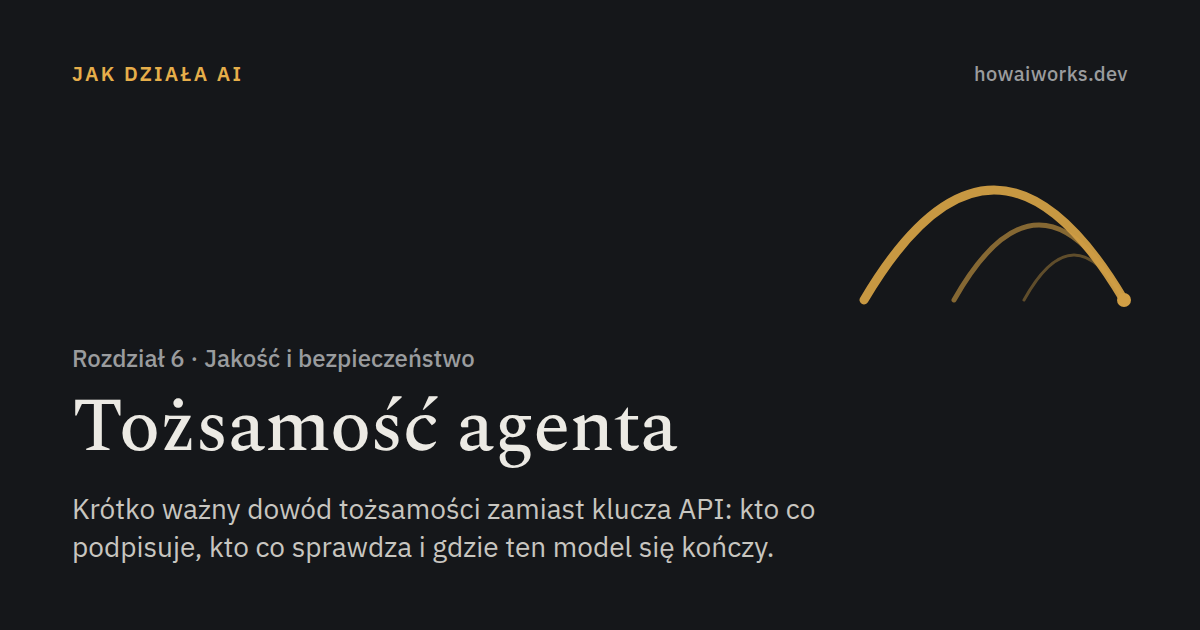
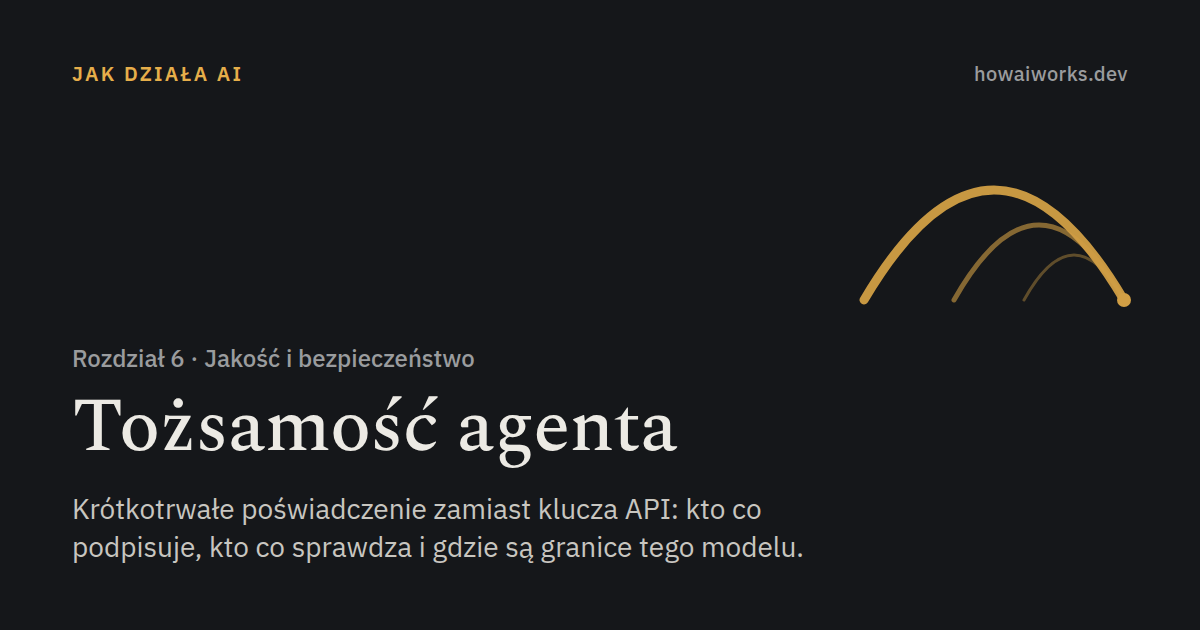
Agent identity: final review fixes and fresh preview images

Changed region(s): [[0.1233, 0.7841, 0.6783, 0.9048]]

diff --git a/src/stations/tozsamosc.html b/src/stations/tozsamosc.html
@@ -48,7 +48,7 @@
   <h3 class="sub">Tożsamość agenta i użytkownika</h3>
   <ul class="notes">
     <li>SPIFFE ID wskazuje agenta, ale nie użytkownika, dla którego agent pracuje. Bez tej informacji grozi problem confused deputy: użytkownik bez prawa do danych dostaje je przez agenta, który to prawo ma. Decyzja o dostępie musi więc uwzględniać obie tożsamości, a dozwolone jest tylko to, co wolno i agentowi, i użytkownikowi.</li>
-    <li>RFC 8693 rozróżnia impersonację i delegację. Przy impersonacji A występuje jako B i w logach nie widać A. Przy delegacji A zachowuje własną tożsamość, zapisaną w polu <code>act</code> tokena. Agentom potrzebna jest delegacja, żeby audyt odróżniał kliknięcie człowieka od decyzji modelu. W pokazanym przepływie z kodem autoryzacji agenta wskazuje <code>client_id</code>, a <code>act</code> pojawia się zwykle przy wymianie tokena.</li>
+    <li>RFC 8693 rozróżnia impersonację i delegację. Przy impersonacji odbiorca tokena traktuje A jak B. Przy delegacji A zachowuje własną tożsamość, zapisaną w polu <code>act</code> tokena. Agentom potrzebna jest delegacja, żeby audyt odróżniał kliknięcie człowieka od decyzji modelu. W pokazanym przepływie z kodem autoryzacji agenta wskazuje <code>client_id</code>, a <code>act</code> pojawia się zwykle przy wymianie tokena.</li>
     <li>Agent nie powinien znać hasła użytkownika ani mieć jego długotrwałego tokena. Dostaje token dla jednego serwera i zakresu, a wobec serwera autoryzacji uwierzytelnia się swoim SVID.</li>
     <li>Narzędzie, które wywołuje kolejną usługę, wymienia token na nowy, węższy. MCP zabrania przekazywania tokena dalej (token passthrough).</li>
   </ul>
